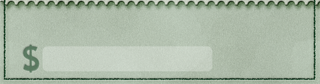
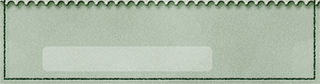
Change drawing of currency symbol on input panel from a bitmap to a UILabel. Localize the currency symbol in the input panel.

diff --git a/SpendingConsequences/SpendingConsequencesViewController.designer.cs b/SpendingConsequences/SpendingConsequencesViewController.designer.cs
@@ -28,6 +28,9 @@ namespace SpendingConsequences
 
 		[Outlet]
 		MonoTouch.UIKit.UIButton div2 { get; set; }
+
+		[Outlet]
+		MonoTouch.UIKit.UILabel currencySymbol { get; set; }
 		
 		void ReleaseDesignerOutlets ()
 		{
@@ -59,6 +62,11 @@ namespace SpendingConsequences
 			if (div2 != null) {
 				div2.Dispose ();
 				div2 = null;
+			}
+
+			if (currencySymbol != null) {
+				currencySymbol.Dispose ();
+				currencySymbol = null;
 			}
 		}
 	}

diff --git a/SpendingConsequences/SpendingConsequencesViewController.cs b/SpendingConsequences/SpendingConsequencesViewController.cs
@@ -96,6 +96,7 @@ namespace SpendingConsequences
 			};
 
 			this.NavigationItem.Title = "Back";
+			this.currencySymbol.Text = Money.LocalCurrencySymbol ();
 		}
 
 		public override void ViewDidAppear (bool animated)
